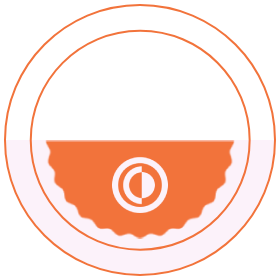
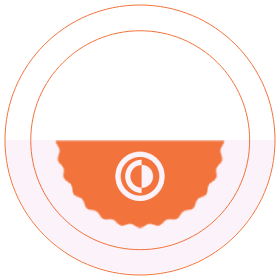
fix wheel

diff --git a/docs/index.html b/docs/index.html
@@ -83,18 +83,12 @@
     <!-- /Marquee -->
     <!-- Wheel -->
     <section id="Wheel" class="wheel">
-            <div class="wheel-container">
-                <div id="sunny-title" class="sunny-title"><img src="./assets/sunny-title.png" alt="sunny"></div>
-                <div id="services-title" class="wheel-title ">
-                    <img src="./assets/services-title.png" alt="">
-                </div>
-                <div id="about-title" class="wheel-title ">
-                    <img src="./assets/about-title.png" alt="">
-                </div>
-                <div id="works-title" class="wheel-title ">
-                    <img src="./assets/works-title.png" alt="">
-                </div>
-            </div>
+        <div class="wheel-container">
+            <div id="sunny-title" class="sunny-title"><img src="./assets/sunny-title.png" alt="sunny"></div>
+            <div id="services-title" class="wheel-title "><img src="./assets/services-title.png" alt=""></div>
+            <div id="about-title" class="wheel-title "><img src="./assets/about-title.png" alt=""></div>
+            <div id="works-title" class="wheel-title "><img src="./assets/works-title.png" alt=""></div>
+        </div>
     </section>
     <!-- /Wheel -->
     <!-- Services -->
@@ -208,15 +202,15 @@
             <h2>Bonus</h2>
         </div>
     </section>
-  
+
     <!-- Contact -->
     <script src="https://cdn.jsdelivr.net/npm/bootstrap@5.0.0-beta3/dist/js/bootstrap.bundle.min.js"
         integrity="sha384-JEW9xMcG8R+pH31jmWH6WWP0WintQrMb4s7ZOdauHnUtxwoG2vI5DkLtS3qm9Ekf"
         crossorigin="anonymous"></script>
-        <script src="./js/index.js"></script>
-        <script src="./js/wheel.js"></script>
+    <script src="./js/index.js"></script>
+    <script src="./js/wheel.js"></script>
     <script>
-       
+
 
         function darkMode() {
             document.getElementById('Header').classList.toggle("dark-mode");

diff --git a/docs/styles/index.css b/docs/styles/index.css
@@ -151,8 +151,8 @@
 .wheel-absolute {
   position: sticky;
   height: auto;
-  top: 50px;
-  z-index: 4;
+  top: 0;
+  z-index: 200;
 }
 
 .wheel-container {
@@ -167,13 +167,10 @@
   height: 280px;
   text-align: center;
   top: -140px;
-  /* border-radius: 50%;
-  background-color: red; */
 }
 .sunny-title img {
   max-width: 100%;
 }
-
 .wheel-title {
   position: absolute;
   width: 280px;
